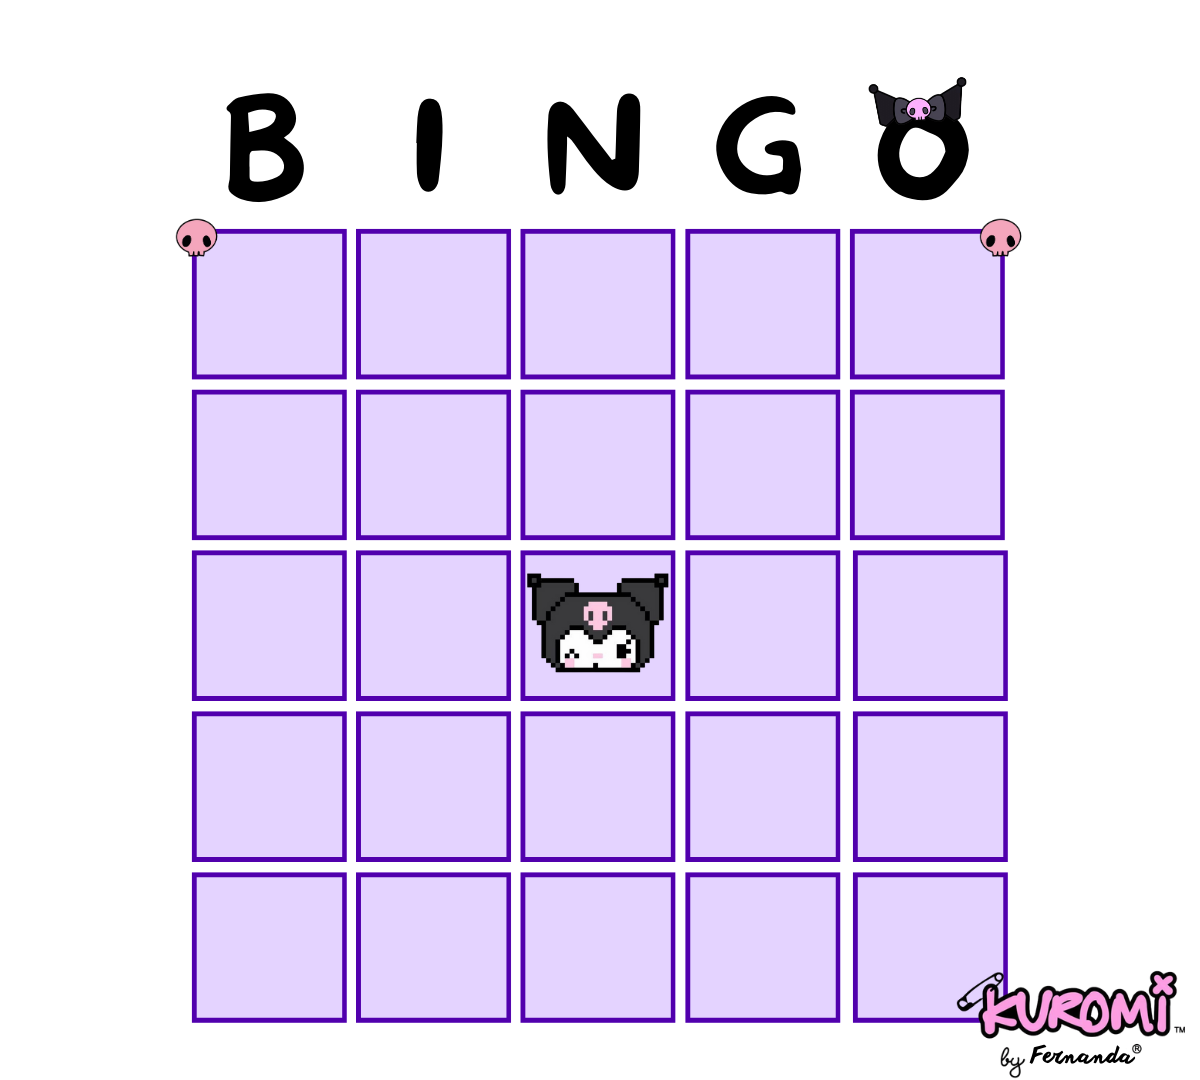
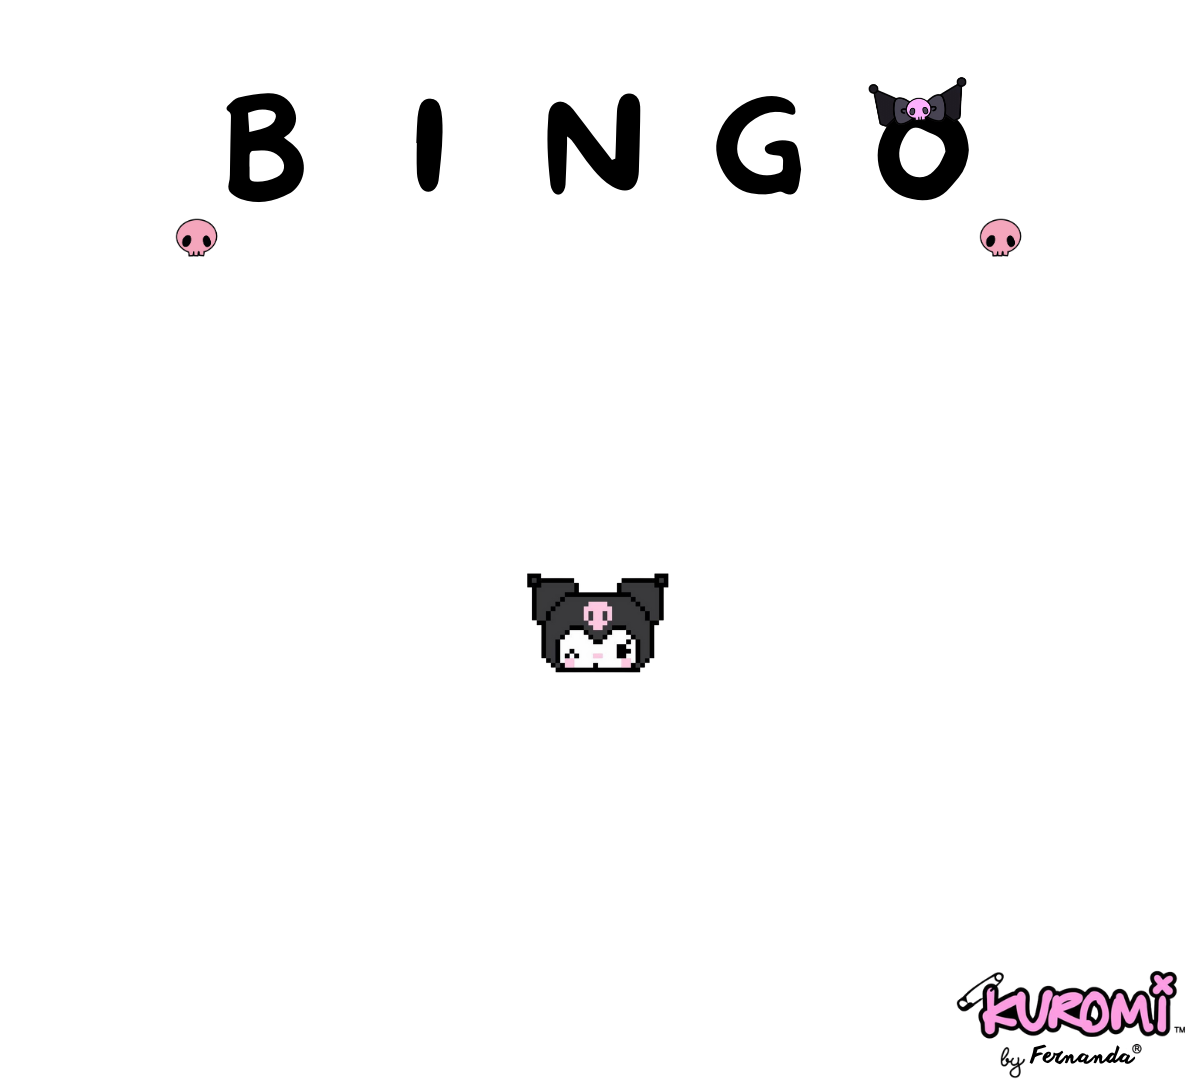
pronto

diff --git a/script.js b/script.js
@@ -1,0 +1,114 @@
+
+function gerarCartela() {
+  const card = document.getElementById("bingoCard");
+  card.innerHTML = "";
+
+  const ranges = [
+    [1, 15],  
+    [16, 30], 
+    [31, 45],  
+    [46, 60],  
+    [61, 75], 
+  ];
+
+  const colData = []; 
+  for (let c = 0; c < 5; c++) {
+    const [min, max] = ranges[c];
+    const nums = [];
+    while (nums.length < 5) {
+      const n = Math.floor(Math.random() * (max - min + 1)) + min;
+      if (!nums.includes(n)) nums.push(n);
+    }
+  
+    nums.sort((a, b) => a - b);
+    colData[c] = nums;
+  }
+
+  for (let l = 0; l < 5; l++) {       
+    for (let c = 0; c < 5; c++) {    
+      const cell = document.createElement("div");
+      cell.classList.add("cell");
+
+   
+      if (l === 2 && c === 2) {
+    cell.innerText = "";
+    cell.classList.add("marcado"); 
+} else {
+    const valor = colData[c][l];
+    cell.textContent = valor;
+    cell.setAttribute("data-numero", valor);
+
+    cell.addEventListener("click", () => {
+        cell.classList.toggle("marcado");
+    });
+}
+
+
+      card.appendChild(cell);
+    }
+  }
+}
+
+// ======== SORTEADOR ========
+let sorteados = [];
+
+const frases = {
+  1: "COMEÇO DE JOGO É",
+  9: "Pingo no pé 9 é!",
+  22: "DOIS PATINHO NA LAGOA: 22",
+  51: "BOA IDEIA: 51",
+  66: "66  Um tapa atrás da orelha",
+  75: "FIM DE JOGO É"
+};
+
+function sortearNumero() {
+  if (sorteados.length >= 75) {
+    document.getElementById("sorteado").innerText = "todos numeros ja foi";
+    document.getElementById("frase").innerText = "";
+    return;
+  }
+
+  let num;
+  do {
+    num = Math.floor(Math.random() * 75) + 1;
+  } while (sorteados.includes(num));
+  sorteados.push(num);
+
+  const letra = num <= 15 ? "B" : num <= 30 ? "I" : num <= 45 ? "N" : num <= 60 ? "G" : "O";
+  document.getElementById("sorteado").innerText = "Número sorteado: " + letra + " " + num;
+
+  document.getElementById("frase").innerText = frases[num] || "";
+}
+
+function verificarBingo() {
+  const cells = document.querySelectorAll(".cell");
+  const grid = [];
+
+  for (let i = 0; i < 5; i++) {
+    grid[i] = [];
+    for (let j = 0; j < 5; j++) {
+      const idx = i * 5 + j;
+      grid[i][j] = cells[idx].classList.contains("marcado") || (i === 2 && j === 2);
+    }
+  }
+
+  let bingo = false;
+
+  for (let i = 0; i < 5; i++) if (grid[i].every(Boolean)) bingo = true;
+
+  for (let j = 0; j < 5; j++) if (grid.every(row => row[j])) bingo = true;
+  if ([0,1,2,3,4].every(i => grid[i][i])) bingo = true;
+  if ([0,1,2,3,4].every(i => grid[i][4-i])) bingo = true;
+
+  const res = document.getElementById("resultado");
+  if (bingo) {
+    res.innerText = " BINGO!!! ";
+    res.style.color = "#00c853";
+  } else {
+    res.innerText = "nao bingou";
+    res.style.color = "#ff1744";
+  }
+}
+
+gerarCartela();
+

diff --git a/style.css b/style.css
@@ -1,7 +1,9 @@
 body {
     font-family: 'Comic Sans MS', cursive, sans-serif;
-    background-color: #ffe6f2;
+    background-color: #bfb7ff;
     text-align: center;
+    background-image: url("BINGO2.png");
+    background-position: center;
     margin: 0;
     padding: 20px;
 }
@@ -13,55 +15,61 @@ h1 {
     text-shadow: 2px 2px 5px #00000020;
 }
 
-
-/* container da imagem */
-
 .bingoContainer {
     position: relative;
     width: 853px;
-    /* largura real do PNG */
     height: 768px;
-    /* altura real do PNG */
     margin: 0 auto;
-    background: url("BINGO.png") no-repeat center;
-    background-size: cover;
 }
 
-
-/* grid dos quadrados */
-
-.bingoCard {
+.bingoContainer::before {
+    content: "";
     position: absolute;
-    top: 150px;
-    /* ajusta posição vertical */
-    left: 88px;
-    /* ajusta posição horizontal */
+    top: 0;
+    left: 0;
+    width: 100%;
+    height: 100%;
+    background: url("BINGO.png") no-repeat center;
+    background-size: cover;
+    z-index: 20;          
+    pointer-events: none;  
+}
+
+#bingoCard {
     display: grid;
-    grid-template-columns: repeat(5, 135px);
-    /* largura de cada quadrado */
-    grid-template-rows: repeat(5, 115px);
-    /* altura de cada quadrado */
+    grid-template-columns: repeat(5, 1fr);
     gap: 5px;
-    /* espaçamento */
+    width: 300px;
+    margin: 143px;
+    padding-top: 160px;
+
 }
 
 .cell {
-    font-size: 28px;
-    font-weight: bold;
-    color: white;
+    width:105px;
+    height:105px;
     display: flex;
     align-items: center;
     justify-content: center;
-    text-shadow: 2px 2px 5px #000;
+    background: #d7b3ff;
+    border: 2px solid #5a00cc;
+    font-size: 30px;
+    font-weight: bold;
+    border-radius: 6px;
     cursor: pointer;
+    user-select: none;
+    color: white;
+    text-shadow: 2px 2px 5px #000;
     transition: 0.3s;
+    
 }
 
-.marcado {
-    background-color: rgba(255, 102, 178, 0.6);
+.cell.marcado {
+    background: #b780ff;
+    color: white;
     border-radius: 15px;
-    transform: scale(1.1);
 }
+
 
 .btn {
     padding: 12px 20px;
@@ -72,7 +80,7 @@ h1 {
     font-size: 18px;
     font-weight: bold;
     cursor: pointer;
-    margin-top: 20px;
+    margin: 10px 5px;
     transition: 0.3s;
 }
 
@@ -83,9 +91,10 @@ h1 {
 
 .sorteado {
     margin-top: 15px;
-    font-size: 22px;
+    font-size: 30px;
     font-weight: bold;
     color: #8b5cf6;
+    
 }
 
 .frase {
@@ -93,4 +102,9 @@ h1 {
     font-size: 20px;
     font-style: italic;
     color: #ff4081;
+}
+
+.resultado {
+    font-size: 80px;
+    font-weight: bold;
 }

diff --git a/index.html b/index.html
@@ -2,21 +2,29 @@
 <html lang="pt-BR">
 
 <head>
-    <meta charset="UTF-8">
-    <meta name="viewport" content="width=device-width, initial-scale=1.0">
-    <title>Bingo Kuromi</title>
+  <meta charset="UTF-8">
+  <meta name="viewport" content="width=device-width, initial-scale=1.0">
+  <title>Bingou</title>
+  <link rel="stylesheet" href="style.css">
 </head>
 
 <body>
-    <h1> Bingo da Kuromi </h1>
+  
+  <div class="bingoContainer">
+    <div class="bingoCard" id="bingoCard"></div>
+  </div>
+  <div class="resultado" id="resultado"></div>
 
-    <div class="bingoContainer">
-        <div class="bingoCard" id="bingoCard"></div>
-    </div>
-
+  <div class="botoes">
     <button class="btn" onclick="sortearNumero()">Sortear Número</button>
-    <div class="sorteado" id="sorteado">Número sorteado: --</div>
-    <div class="frase" id="frase"></div>
+    <button class="btn" onclick="verificarBingo()">BINGOU</button>
+    <button class="btn" onclick="gerarCartela()">Nova Cartela</button>
+  </div>
+
+  <div class="sorteado" id="sorteado">Número sorteado: </div>
+  <div class="frase" id="frase"></div>
+  
+  <script src="script.js"></script>
 </body>
 
 </html>
